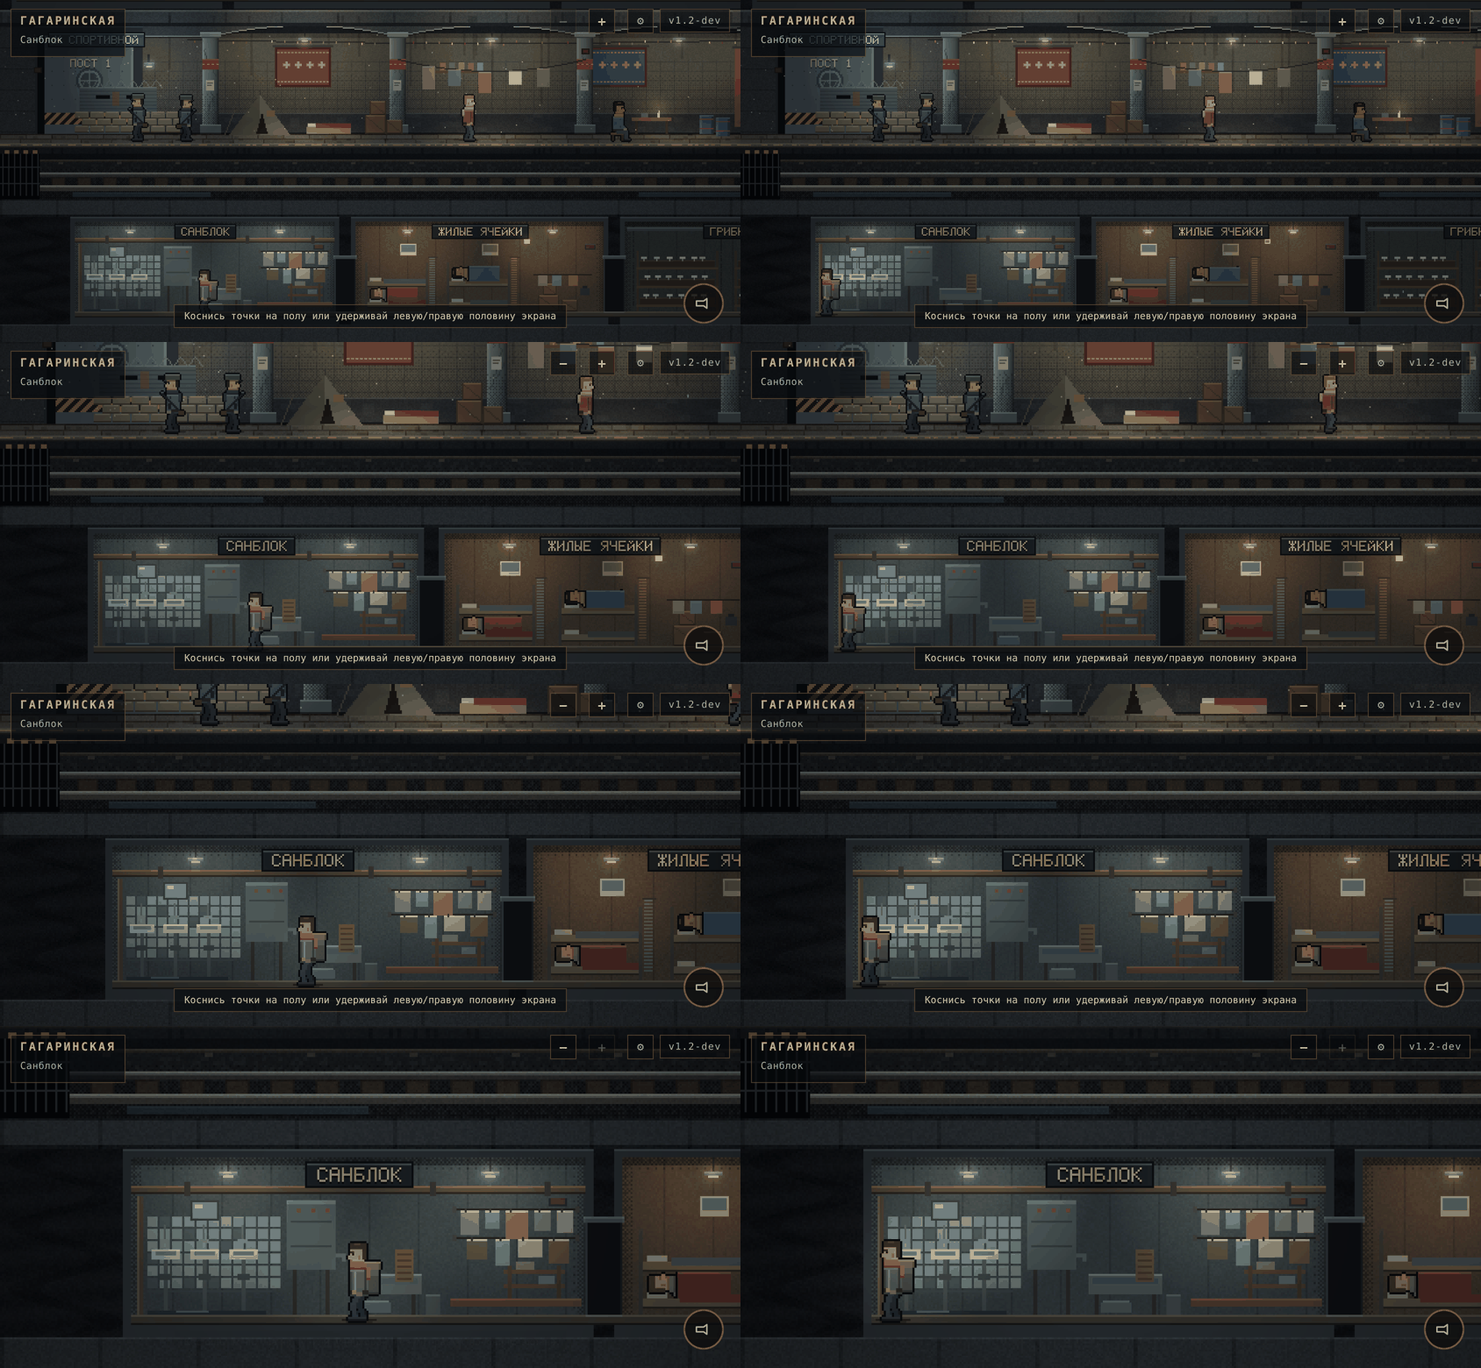
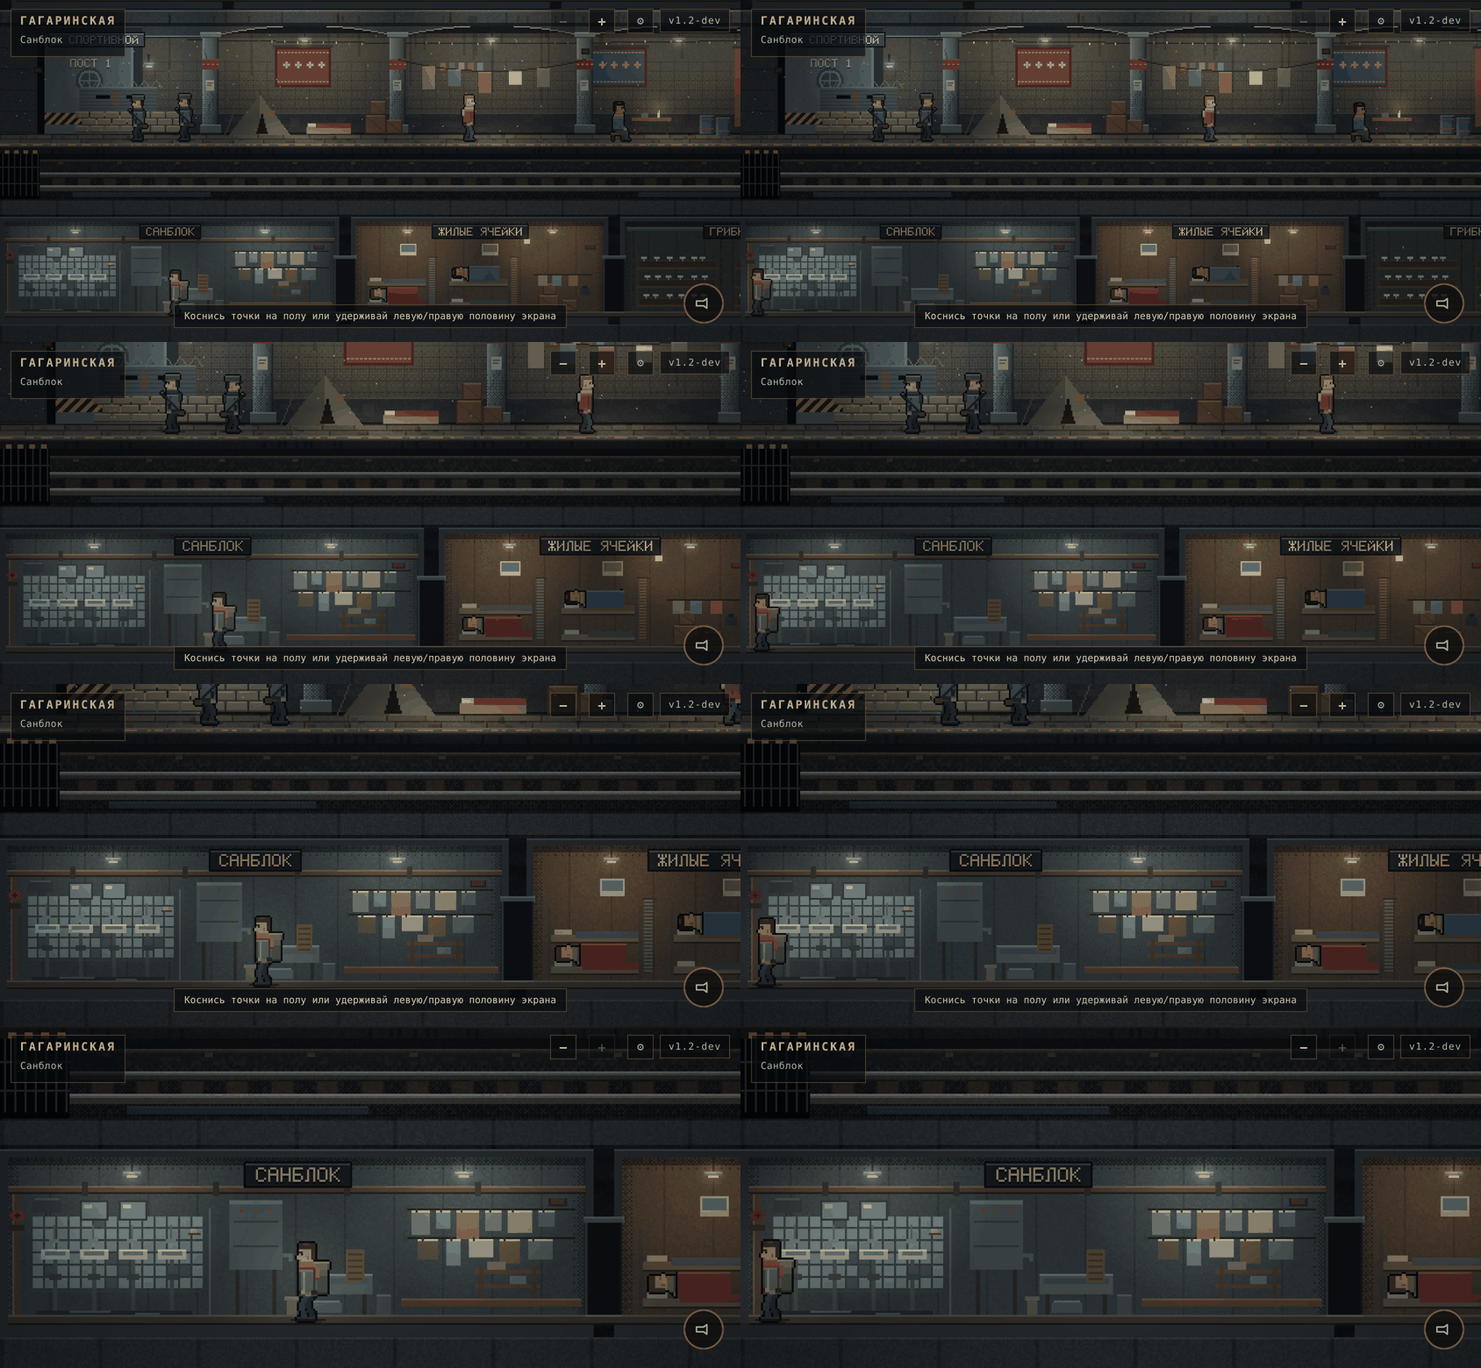
SAN-001 R2 (ветка san-001): «САНБЛОК» до западного края мира — x 0–290 (было 60–290), minX 74 → 15 (стена 4 + 11, как у торцевых комнат); интерьер перераспределён: западная стена со стояком, умывальная с бойлером и 4 раковинами, прачечная, сушилка; тесты SAN01/02/06, снимок 4 масштабов
Проём [286,304], цепь living, em-sanitary и DEV-метка сборки сохранены. Жилые ячейки, койки, NPC и соседние комнаты не менялись.
Ввод, касания и сохранения не трогались.

Claude-Session: https://claude.ai/code/session_01PiP47VSsE4of42jFh6Gbm4

diff --git a/index.html b/index.html
@@ -196,7 +196,7 @@ const CONFIG = {
   // Этажи: y — линия ступней; minX/maxX — проходимый участок (торцы, стены, завал).
   FLOORS: {
     platform: { y: 219, minX: 176, maxX: 1850 },  // у торцов стоит охрана
-    utility:  { y: 368, minX: 74, maxX: 1975, bottom: true },   // SAN-001: слева «САНБЛОК» (x 60–290), граница 74 (было 310)   // ST-001: до 1975 — дренажная и насосная (мир до x 1990)   // 1.0: хозяйственно-жилой ярус −2 под путями; камера — по низу мира
+    utility:  { y: 368, minX: 15, maxX: 1975, bottom: true },   // SAN-001 R2: «САНБЛОК» от края мира (x 0–290); граница 15 = стена 4 + 11, как у других торцевых комнат (было 310)   // ST-001: до 1975 — дренажная и насосная (мир до x 1990)   // 1.0: хозяйственно-жилой ярус −2 под путями; камера — по низу мира
     upper:    { y: 98,  minX: 25,  maxX: 1975 },   // комната героя → … → шлюз → «НАЧАЛЬНИК СТАНЦИИ» (ST-001: 1730–1990, граница 1975)
     vestibule: { y: -14, minX: 1188, maxX: 1852, cam: 0.40 },   // 0.9: вестибюль +1 — карантин, экипировка, КПП, зал, караульная
     surface:  { y: -122, minX: 1136, maxX: 1980, cam: 0.72 },   // улица (0.9: земля поднята с −61, под ней вестибюль)
@@ -1196,7 +1196,7 @@ const ROOMS = [
       tint: [70, 74, 78],  light: [222, 226, 228], circuit: 'technical' },
   { id: 'guardroom',      floor: 'vestibule', x: 1760, w: 100, label: 'КАРАУЛЬНАЯ',  type: 'guardroom',  tint: [88, 76, 62],  light: [255, 200, 140], circuit: 'living' },
   // 1.0: ярус −2 — тот же код комнат со сдвигом на +270 по y (под путями). id совпадают с прежними planned-записями генплана.
-  { id: 'sanitary',     floor: 'utility', x: 60,   w: 230, label: 'САНБЛОК',      type: 'sanblock',  tint: [70, 78, 76],  light: [220, 214, 190], circuit: 'living',    future: [] },   // SAN-001: умывальная, прачечная, сушилка
+  { id: 'sanitary',     floor: 'utility', x: 0,    w: 290, label: 'САНБЛОК',      type: 'sanblock',  tint: [70, 78, 76],  light: [220, 214, 190], circuit: 'living',    future: [] },   // SAN-001 R2: от западного края мира; умывальная, прачечная, сушилка
   { id: 'living-pods',  floor: 'utility', x: 300,  w: 220, label: 'ЖИЛЫЕ ЯЧЕЙКИ', type: 'cells',     tint: [86, 72, 58],  light: [255, 190, 120], circuit: 'living',    future: [] },
   { id: 'mushrooms',    floor: 'utility', x: 530,  w: 200, label: 'ГРИБНИЦА',     type: 'mushrooms', tint: [58, 64, 56],  light: [196, 214, 180], circuit: 'technical', future: [] },
   { id: 'tea-ferment',  floor: 'utility', x: 740,  w: 180, label: 'ФЕРМЕНТАЦИЯ',  type: 'ferment',   tint: [92, 74, 56],  light: [255, 200, 140], circuit: 'technical', future: [] },
@@ -1375,43 +1375,49 @@ const ROOM_DRAW = {
   /** Шлюз: гермоворота в задней стене (створки рисуются в кадре — они открываются), оружейная стойка. */
   /* ---- 1.0: ярус −2 (координаты шаблона комнаты яруса: пол 96, потолок 19) ---- */
   /** Жилые ячейки: двухъярусные нары за занавесками, ящики, личные вещи, самодельная лампа. */
-  /** SAN-001: «САНБЛОК» — умывальная (раковины, кафель, зеркало), прачечная (бак, корыто, таз, стиральная доска), сушилка (верёвки с бельём, тёплая труба). */
+  /** SAN-001 R2: «САНБЛОК» от западного края мира (x 0–290). Слева направо: умывальная, прачечная, сушилка; западная стена со стояком и бойлером. */
   sanblock(g, r) {
-    const x = r.x;                                                          // внутренняя часть стены — r.x + 4 … r.x + 226 (w 230)
+    const x = r.x;                                                          // внутренняя часть стены — r.x + 4 … r.x + 286 (w 290)
     R(g, x + 4, 33, r.w - 8, 4, '#5a4a3c'); R(g, x + 4, 33, r.w - 8, 1, '#8a6a4a'); R(g, x + 4, 36, r.w - 8, 1, '#2e2620');   // ржавая магистраль под потолком
-    for (const hx of [x + 30, x + 150, x + 206]) R(g, hx, 31, 3, 7, '#3a3632');                                             // хомуты
-    // А. Умывальная (r.x + 6 … 74): кафель, стояк, три раковины с кранами, мутное зеркало
-    for (let ty = 48; ty < 84; ty += 6) for (let tx = x + 12; tx < x + 74; tx += 6)
+    for (const hx of [x + 40, x + 104, x + 168, x + 232]) R(g, hx, 31, 3, 7, '#3a3632');                                     // хомуты
+    // Западная стена: стояк от магистрали до пола, вентиль, потёки
+    R(g, x + 6, 37, 4, 59, '#5a4a3c'); R(g, x + 6, 37, 1, 59, '#7a6a52'); R(g, x + 4, 52, 8, 3, '#3e3430'); disc(g, x + 8, 47, 3, '#8a3a30'); disc(g, x + 8, 47, 1, '#3a2a24');
+    for (let y = 60; y < 96; y += 3) if (hash(y, 3) > 0.4) R(g, x + 11, y, 1, 2, '#3e4a48');
+    // А. Умывальная (r.x + 14 … 100): кафель, бойлер, четыре раковины, два зеркала, полка с мылом, мокрый пол
+    for (let ty = 48; ty < 84; ty += 6) for (let tx = x + 16; tx < x + 98; tx += 6)
       R(g, tx, ty, 5, 5, hash(tx, ty) > 0.9 ? '#55605e' : (hash(tx + 1, ty) > 0.5 ? '#8e9a96' : '#86928e'));
-    R(g, x + 12, 84, 61, 1, '#4a5452');
-    R(g, x + 7, 38, 3, 58, '#5a4a3c'); R(g, x + 7, 38, 1, 58, '#7a6a52');                                                      // стояк
-    for (let k = 0; k < 3; k++) {
-      const sx = x + 14 + k * 19;
+    R(g, x + 16, 84, 82, 1, '#4a5452');
+    R(g, x + 16, 40, 14, 6, '#3e4644'); R(g, x + 17, 39, 12, 1, '#5e6664'); R(g, x + 22, 46, 1, 2, '#3a3e3c');                  // бойлер над раковинами
+    for (let k = 0; k < 4; k++) {
+      const sx = x + 20 + k * 19;
       R(g, sx + 6, 52, 1, 8, '#6a6e6c'); R(g, sx + 4, 59, 5, 2, '#8a8e8c'); R(g, sx + 6, 61, 1, 2, '#9aa0a0');                  // кран
       R(g, sx, 64, 14, 5, '#c8ccc4'); R(g, sx, 64, 14, 1, '#e0e2da'); R(g, sx + 2, 65, 10, 2, '#7a8684');                       // раковина
       R(g, sx + 6, 69, 2, 27, '#5a5e5c'); R(g, sx + 4, 76, 6, 3, '#4a4e4c');                                                    // слив и сифон
-      if (k === 1) { R(g, sx, 40, 14, 10, '#3a3e3c'); R(g, sx + 1, 41, 12, 8, '#7a8a8e'); R(g, sx + 2, 42, 4, 2, '#a8b8bc'); }   // мутное зеркало
+      if (k === 1 || k === 2) { R(g, sx, 40, 14, 10, '#3a3e3c'); R(g, sx + 1, 41, 12, 8, '#7a8a8e'); R(g, sx + 2, 42, 4, 2, '#a8b8bc'); }   // мутные зеркала
     }
-    R(g, x + 12, 94, 58, 2, '#2e3a3e'); R(g, x + 26, 94, 16, 1, '#5a7480');                                                    // мокрый пол
-    // Б. Прачечная (r.x + 80 … 154): бак на подставке, корыто со стиральной доской, таз, ведро
-    const bx = x + 80;
-    R(g, bx, 40, 24, 34, '#5e6a66'); R(g, bx, 40, 24, 2, '#7e8a86'); R(g, bx + 2, 50, 20, 1, '#46504c'); R(g, bx + 2, 62, 20, 1, '#46504c');
+    R(g, x + 92, 56, 6, 1, '#5a4632'); R(g, x + 93, 54, 3, 2, '#c8b88a');                                                       // полка с мылом
+    R(g, x + 18, 94, 76, 2, '#2e3a3e'); R(g, x + 34, 94, 20, 1, '#5a7480'); R(g, x + 66, 95, 12, 1, '#5a7480');                 // мокрый пол
+    R(g, x + 102, 44, 3, 52, '#4a4e4c'); R(g, x + 102, 44, 1, 52, '#6a6e6c');                                                   // перегородка-стойка
+    // Б. Прачечная (r.x + 110 … 192): бак на подставке, корыто со стиральной доской, таз, ведро, мешок с бельём
+    const bx = x + 112;
+    R(g, bx, 40, 26, 34, '#5e6a66'); R(g, bx, 40, 26, 2, '#7e8a86'); R(g, bx + 2, 50, 22, 1, '#46504c'); R(g, bx + 2, 62, 22, 1, '#46504c');
     for (let k = 0; k < 3; k++) R(g, bx + 5 + k * 7, 44, 2, 2, '#8a5a3a');                                                   // ржавые заклёпки
-    R(g, bx + 3, 74, 2, 22, '#3a3632'); R(g, bx + 19, 74, 2, 22, '#3a3632'); R(g, bx + 24, 66, 5, 2, '#6a6e6c'); R(g, bx + 27, 66, 2, 4, '#6a6e6c');   // ножки, кран бака
-    const tx = x + 110;
+    R(g, bx + 3, 74, 2, 22, '#3a3632'); R(g, bx + 21, 74, 2, 22, '#3a3632'); R(g, bx + 26, 66, 5, 2, '#6a6e6c'); R(g, bx + 29, 66, 2, 4, '#6a6e6c');   // ножки, кран бака
+    const tx = x + 146;
     R(g, tx, 76, 36, 10, '#6a6e6a'); R(g, tx, 76, 36, 1, '#9a9e98'); R(g, tx + 2, 78, 32, 3, '#4a6a74');                       // корыто с водой
     R(g, tx + 3, 86, 2, 10, '#3a3632'); R(g, tx + 31, 86, 2, 10, '#3a3632');
     R(g, tx + 23, 64, 9, 16, '#7a6248'); for (let k = 0; k < 5; k++) R(g, tx + 24, 66 + k * 3, 7, 1, '#5a4632');                 // стиральная доска
     R(g, tx + 6, 90, 15, 5, '#5a6a72'); R(g, tx + 7, 89, 13, 1, '#7a8a92');                                                     // таз на полу
-    R(g, x + 148, 86, 7, 10, '#5a5e5c'); R(g, x + 148, 86, 7, 1, '#7a7e7c');                                                   // ведро
-    // В. Сушилка (r.x + 160 … 224): тёплая труба, две верёвки с бельём, деревянная решётка
-    R(g, x + 160, 88, 64, 4, '#7a4a3a'); R(g, x + 160, 88, 64, 1, '#9a6a52');                                                   // тёплая труба отопления
-    for (const ry of [44, 58]) { L(g, x + 162, ry, x + 222, ry, '#2a2622'); R(g, x + 161, ry - 1, 2, 3, '#4a4440'); R(g, x + 221, ry - 1, 2, 3, '#4a4440'); }
-    const cloth = [[165, 44, 9, 12, '#8a8070'], [177, 44, 7, 9, '#6a7a8a'], [187, 44, 11, 14, '#9a6a5a'], [201, 44, 8, 10, '#7a8a6a'], [212, 44, 8, 11, '#a89a80'],
-      [168, 58, 10, 10, '#6a5a4a'], [182, 58, 7, 13, '#8a7a9a'], [193, 58, 12, 9, '#b8ae94'], [208, 58, 10, 12, '#7a5a4a']];
+    R(g, x + 184, 86, 7, 10, '#5a5e5c'); R(g, x + 184, 86, 7, 1, '#7a7e7c');                                                   // ведро
+    R(g, x + 140, 88, 5, 8, '#7a7060'); R(g, x + 139, 87, 7, 2, '#8a8070');                                                     // мешок с бельём
+    // В. Сушилка (r.x + 196 … 284): тёплая труба, две верёвки с бельём, деревянная решётка
+    R(g, x + 196, 88, 88, 4, '#7a4a3a'); R(g, x + 196, 88, 88, 1, '#9a6a52');                                                   // тёплая труба отопления
+    for (const ry of [44, 58]) { L(g, x + 198, ry, x + 282, ry, '#2a2622'); R(g, x + 197, ry - 1, 2, 3, '#4a4440'); R(g, x + 281, ry - 1, 2, 3, '#4a4440'); }
+    const cloth = [[201, 44, 9, 12, '#8a8070'], [213, 44, 7, 9, '#6a7a8a'], [223, 44, 11, 14, '#9a6a5a'], [237, 44, 8, 10, '#7a8a6a'], [248, 44, 12, 11, '#a89a80'], [263, 44, 8, 8, '#5a6a7a'],
+      [204, 58, 10, 10, '#6a5a4a'], [218, 58, 7, 13, '#8a7a9a'], [229, 58, 12, 9, '#b8ae94'], [244, 58, 10, 12, '#7a5a4a'], [258, 58, 12, 10, '#6a7a6a']];
     for (const [cx, cy, cw, ch, c] of cloth) { R(g, x + cx, cy + 1, cw, ch, c); R(g, x + cx, cy + 1, cw, 1, '#d8d0c0'); R(g, x + cx + 2, cy, 1, 2, '#3a3632'); }
-    R(g, x + 186, 74, 30, 2, '#6a5034'); R(g, x + 186, 81, 30, 2, '#6a5034'); R(g, x + 188, 72, 2, 16, '#5a4630'); R(g, x + 212, 72, 2, 16, '#5a4630');   // сушильная решётка
-    R(g, x + 192, 70, 9, 4, '#8a8070'); R(g, x + 203, 77, 8, 4, '#6a7a8a');                                                     // носки и полотенце
+    R(g, x + 232, 74, 32, 2, '#6a5034'); R(g, x + 232, 81, 32, 2, '#6a5034'); R(g, x + 234, 72, 2, 16, '#5a4630'); R(g, x + 260, 72, 2, 16, '#5a4630');   // сушильная решётка
+    R(g, x + 238, 70, 9, 4, '#8a8070'); R(g, x + 249, 77, 8, 4, '#6a7a8a');                                                     // носки и полотенце
   },
   cells(g, r) {
     for (let i = 0; i < 2; i++) {

diff --git a/CHANGELOG.md b/CHANGELOG.md
@@ -1,17 +1,19 @@
 # Журнал изменений
 
-## ветка san-001 — SAN-001 «САНБЛОК» (02.11.2026; ожидает приёмки автора, в dev не слита)
+## ветка san-001 — SAN-001 «САНБЛОК», ревизия R2 (02.11.2026; ожидает приёмки автора, в dev не слита)
 
 По ШТАБ-011 / CL-008. Ветка `san-001` от `dev` `d42f9a0` (принятые ST-001 C / CL-006).
-- **«САНБЛОК»** — id `sanitary`, ярус −2, x 60–290, цепь `living`. Три зоны одной комнаты:
-  - умывальная: кафель, стояк, три раковины с кранами и сифонами, мутное зеркало, мокрый пол;
-  - прачечная: бак на подставке с краном, корыто с водой и стиральной доской, таз, ведро;
+- **«САНБЛОК»** — id `sanitary`, ярус −2, **x 0–290 — от западного края мира** (R2 по ШТАБ-013 / CL-009; в R1 было x 60–290, слева оставался грунт), цепь `living`.
+  - Западная стена: стояк с вентилем и потёками.
+  - Три зоны одной комнаты:
+  - умывальная: кафель, бойлер, четыре раковины с кранами и сифонами, два мутных зеркала, полка с мылом, мокрый пол, перегородка-стойка;
+  - прачечная: бак на подставке с краном, корыто с водой и стиральной доской, таз, ведро, мешок с бельём;
   - сушилка: две верёвки с бельём, деревянная решётка, тёплая труба отопления.
   - Под потолком — ржавая магистраль с хомутами.
-- **Граница ходьбы −2** слева: `minX` 310 → 74. Проём в жилые ячейки `[286,304]`. Койки и спящий житель (x 312 / 316) не задеты.
+- **Граница ходьбы −2** слева: `minX` 310 → 15. Это стена (4) + 11 — тот же отступ, что у торцевых комнат: комната героя 14 → 25, «Начальник станции» 1986 → 1975. Проём в жилые ячейки `[286,304]`. Койки и спящий житель (x 312 / 316) не задеты.
 - **Свет:** две лампы комнаты по общей схеме + аварийная `em-sanitary` у проёма (x 272). В блэкауте гаснет вместе с цепью `living`.
 - В санблоке нет квестов, осмотров, NPC, лута и механик HP.
-- **DEV-метка сборки:** в DEV на кнопке версии — «v1.2-dev DEV · xxxxxxx». Это 7 знаков хэша кода запущенной страницы: по ним видно, не открылась ли на iPhone устаревшая копия из кэша. PROD-метка не меняется, сохранения и кэш не трогаются.
+- **DEV-метка сборки** (из R1): в DEV на кнопке версии — «v1.2-dev DEV · xxxxxxx». Это 7 знаков хэша кода запущенной страницы: по ним видно, не открылась ли на iPhone устаревшая копия из кэша. PROD-метка не меняется, сохранения и кэш не трогаются.
 - Прежние сохранения (позиции x ≥ 310 на −2) загружаются на месте, ключи не менялись.
 - Тесты `station` SAN01–SAN07. Снимок 4 масштабов: `docs/screenshots/san-001/sanblock_4zoom.png`.
 
